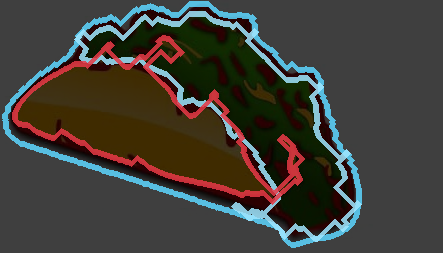
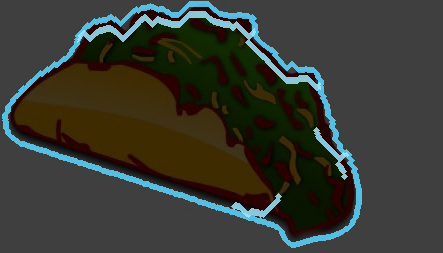
filibertos-taco: v4c-neon — cleaner taco read + manifold repair
Design feedback iteration:
  - Removed DecorationShell (made silhouette look double-lined)
  - Replaced DecorationLettuce closed-contour with DecorationFillingLine,
    a single curve tracing only the BOTTOM EDGE of the lettuce blob.
    Combined with the silhouette outline this reads as taco-cradle +
    horizontal filling split.

Manifold fixes:
  - Reverted mask-blur smoothing (smoothing outer+inner ring edges
    independently diverged them, producing self-intersecting volumes).
  - Added repair_manifold() to build pipeline: dissolve_degenerate +
    delete_loose + fill_holes(8) + remove_doubles. Recovers a watertight
    mesh after EXACT-solver INTERSECT on ring shapes (the EXACT solver
    sometimes leaves tiny coplanar fragments).

All 4 STLs now watertight (verified via trimesh):
  Bottom.stl                     watertight=True euler=2
  Top.stl                        watertight=True euler=0
  DecorationSilhouette.stl       watertight=True euler=0
  DecorationFillingLine.stl      watertight=True euler=2

Filaments: black body + light blue strokes (2 total). Refreshed
print/neon/ bundle accordingly.

diff --git a/beads/filibertos-taco/extract_strokes.py b/beads/filibertos-taco/extract_strokes.py
@@ -77,23 +77,38 @@ def boundary_stroke_between(a_mask, b_mask, half_w):
 
 silhouette_stroke = ring_stroke(silhouette, half)
 
-# Lettuce: aggressively close the mask first so all the leaf blobs merge
-# into ONE continuous shape, then ring-stroke its outer contour. Without
-# the strong close, you get one ring per leaf (fragmented).
-def merge_blobs(mask, dilate_iters=12):
+# Lettuce-shell DIVIDING LINE: a single curve across the bead width
+# tracing where the green filling sits on top of the yellow shell.
+# Combined with the silhouette outline, this reads as "taco" (the
+# silhouette is the half-circle bun, the line is the open-top split).
+#
+# Implementation: morph-close the lettuce blob to one shape, then take
+# only its BOTTOM-EDGE pixels (where the row below is NOT lettuce).
+# That's a thin polyline across the bead. Dilate it to stroke width.
+def merge_blobs(mask, dilate_iters=14):
     closed = ndimage.binary_dilation(mask, iterations=dilate_iters)
     closed = ndimage.binary_erosion(closed, iterations=dilate_iters)
     closed = ndimage.binary_fill_holes(closed)
-    # keep only the largest component
     labeled, n = ndimage.label(closed)
     if not n: return closed
     sizes = ndimage.sum(closed, labeled, range(1, n+1))
     return labeled == 1 + int(np.argmax(sizes))
 
 lettuce_blob = merge_blobs(lettuce_full, dilate_iters=14) & silhouette
-shell_blob   = merge_blobs(shell_m,      dilate_iters=14) & silhouette
-lettuce_outline = ring_stroke(lettuce_blob, half)
-shell_outline   = ring_stroke(shell_blob,   half)
+
+# Bottom edge of the lettuce blob: pixels in lettuce_blob whose pixel-down
+# is NOT lettuce_blob. (Image Y axis: row+1 is "down" in image coords,
+# which is "below" in original-image up-orientation. We're tracing the
+# topological lower edge of the lettuce in image space — which IS the
+# physical bottom of the lettuce on the printed bead since the source
+# JPG has the lettuce on top and shell below.)
+shifted_down = np.zeros_like(lettuce_blob)
+shifted_down[1:, :] = lettuce_blob[:-1, :]
+bottom_edge_pixels = lettuce_blob & ~shifted_down
+
+# Inflate the 1-pixel-thick edge into a stroke
+filling_line = ndimage.binary_dilation(bottom_edge_pixels, iterations=half)
+filling_line = filling_line & silhouette
 
 # Drop tiny disconnected fragments per stroke
 def keep_large(mask, min_px=80):
@@ -106,12 +121,10 @@ def keep_large(mask, min_px=80):
     return keep
 
 silhouette_stroke = keep_large(silhouette_stroke, 200)
-lettuce_outline   = keep_large(lettuce_outline,   200)
-shell_outline     = keep_large(shell_outline,     200)
+filling_line      = keep_large(filling_line,      200)
 
 print(f"silhouette_stroke: {silhouette_stroke.sum()} px")
-print(f"lettuce_outline:   {lettuce_outline.sum()} px")
-print(f"shell_outline:     {shell_outline.sum()} px")
+print(f"filling_line:      {filling_line.sum()} px")
 
 # ── Outer bbox (shared coord frame with silhouette.svg) ─────────────
 ys_o, xs_o = np.where(silhouette)
@@ -133,6 +146,10 @@ def downsample(c, n=300):
     return c[idx]
 
 def mask_to_paths(mask, smooth=True, harm=FOURIER_HARM, min_area=80):
+    """Trace contours of `mask`. NO Fourier smoothing — for ring strokes,
+    smoothing outer+inner edges independently makes them cross, producing
+    self-intersecting volumes after extrusion → non-manifold STLs.
+    Just downsample and use the raw stair-step pixel contours."""
     labeled, n = ndimage.label(mask)
     paths = []
     for k in range(1, n+1):
@@ -140,11 +157,8 @@ def mask_to_paths(mask, smooth=True, harm=FOURIER_HARM, min_area=80):
         if comp.sum() < min_area: continue
         contours = measure.find_contours(comp.astype(np.uint8), level=0.5)
         for c in contours:
-            if len(c) < 8: continue
+            if len(c) < 16: continue
             c = downsample(c, 300)
-            if smooth and len(c) > 10:
-                z = fourier_smooth(c, min(harm, len(c)//4))
-                c = np.column_stack((z.real, z.imag))
             paths.append(c)
     return paths
 
@@ -167,12 +181,12 @@ def write_svg(filename, paths, fill='#000'):
 
 # Each stroke is exported as its own SVG so the build script can pick
 # which ones to emboss as separate decoration objects (and assign filaments).
-write_svg(OUT/'stroke_silhouette.svg', mask_to_paths(silhouette_stroke, harm=FOURIER_HARM, min_area=200), '#5dd6ff')
-write_svg(OUT/'stroke_lettuce.svg',    mask_to_paths(lettuce_outline,   harm=14,           min_area=200), '#5dd6ff')
-write_svg(OUT/'stroke_shell.svg',      mask_to_paths(shell_outline,     harm=14,           min_area=200), '#e63946')
+write_svg(OUT/'stroke_silhouette.svg',   mask_to_paths(silhouette_stroke, harm=FOURIER_HARM, min_area=400), '#5dd6ff')
+write_svg(OUT/'stroke_filling_line.svg', mask_to_paths(filling_line,      harm=FOURIER_HARM, min_area=400), '#5dd6ff')
 
-# Drop the older fragmented strokes if they exist — name change
-for old in ('stroke_lettuce_line.svg', 'stroke_lettuce_veins.svg'):
+# Drop older strokes whose names changed across iterations
+for old in ('stroke_lettuce_line.svg', 'stroke_lettuce_veins.svg',
+            'stroke_lettuce.svg', 'stroke_shell.svg'):
     p = OUT / old
     if p.exists(): p.unlink()
 
@@ -181,8 +195,7 @@ overlay = img.astype(np.float32) * 0.25
 def tint(mask, col, alpha=0.85):
     overlay[mask] = (1-alpha) * overlay[mask] + alpha * np.array(col, dtype=np.float32)
 tint(silhouette_stroke, (93, 214, 255))
-tint(lettuce_outline,   (160, 230, 255))
-tint(shell_outline,     (230, 57, 70))
+tint(filling_line,      (160, 230, 255))
 np.clip(overlay, 0, 255, out=overlay)
 Image.fromarray(overlay.astype(np.uint8)).save(OUT/'stroke_debug.png')
 print(f"  wrote {OUT/'stroke_debug.png'}")

diff --git a/beads/filibertos-taco/build_filibertos_taco.py b/beads/filibertos-taco/build_filibertos_taco.py
@@ -39,8 +39,7 @@ REGION_COLORS = {
 # Neon-mode color palette.
 NEON_COLORS = {
     "silhouette":    (0.36, 0.84, 1.00, 1),    # primary light blue stroke
-    "lettuce_line":  (0.36, 0.84, 1.00, 1),    # second light blue stroke
-    "lettuce_veins": (0.90, 0.18, 0.25, 1),    # red accent (or swap for navy)
+    "filling_line":  (0.36, 0.84, 1.00, 1),    # the lettuce-shell dividing line
 }
 
 def _camel(name): return ''.join(p.capitalize() for p in name.split('_'))
@@ -92,6 +91,25 @@ def clean_mesh(obj, threshold=0.005):
     bpy.ops.object.mode_set(mode='EDIT')
     bpy.ops.mesh.select_all(action='SELECT')
     bpy.ops.mesh.remove_doubles(threshold=threshold)
+    bpy.ops.mesh.normals_make_consistent(inside=False)
+    bpy.ops.object.mode_set(mode='OBJECT')
+
+def repair_manifold(obj):
+    """After EXACT boolean on thin extruded shapes, the EXACT solver
+    sometimes leaves coplanar fragments and unfilled boundary loops.
+    This pass dissolves zero-area features, deletes loose verts/edges,
+    and fills any open boundary loops to recover a watertight mesh."""
+    obj.select_set(True); bpy.context.view_layer.objects.active = obj
+    bpy.ops.object.mode_set(mode='EDIT')
+    bpy.ops.mesh.select_all(action='SELECT')
+    bpy.ops.mesh.dissolve_degenerate(threshold=0.001)
+    bpy.ops.mesh.delete_loose()
+    bpy.ops.mesh.select_all(action='DESELECT')
+    bpy.ops.mesh.select_non_manifold(extend=False, use_wire=True, use_boundary=True,
+                                      use_multi_face=False, use_non_contiguous=False, use_verts=False)
+    bpy.ops.mesh.fill_holes(sides=8)
+    bpy.ops.mesh.select_all(action='SELECT')
+    bpy.ops.mesh.remove_doubles(threshold=0.005)
     bpy.ops.mesh.normals_make_consistent(inside=False)
     bpy.ops.object.mode_set(mode='OBJECT')
 
@@ -335,9 +353,12 @@ def main():
         bpy.ops.object.mode_set(mode='OBJECT')
         boolean_op(d, cropper, 'INTERSECT', f'{name}Crop')
         clean_mesh(d)
+        repair_manifold(d)        # fixes ring-shape boolean artifacts
         assign_material(d, f"{name}Mat", color)
         decos.append(d)
-        print(f"  {name}: dims={d.dimensions.x:.2f}x{d.dimensions.y:.2f}x{d.dimensions.z:.2f}")
+        # report manifold so the build log surfaces issues immediately
+        nm = check_nonmanifold(d)
+        print(f"  {name}: dims={d.dimensions.x:.2f}x{d.dimensions.y:.2f}x{d.dimensions.z:.2f}  non-manifold={nm}")
 
     # ── Step 9: Hide FullBead, materials, save ─────────────────────────
     body.hide_set(True); body.hide_render = True

diff --git a/beads/filibertos-taco/PRINT_LOG.md b/beads/filibertos-taco/PRINT_LOG.md
@@ -4,6 +4,36 @@ Append-only, newest at the top. Every physical print of this charm gets one entr
 
 ---
 
+## v4c-neon — 2026-05-08 — not yet printed (cleanest taco read)
+
+User feedback on v4b: "not 'obviously taco' enough, drop the bottom shell line".
+
+Two design changes:
+1. **Removed `DecorationShell`** — a ring around the lower half made the
+   silhouette look double-lined and busy.
+2. **Replaced `DecorationLettuce` (closed contour) with `DecorationFillingLine`**
+   — a single curve tracing only the BOTTOM EDGE of the lettuce blob (where
+   filling meets shell). Now the bead silhouette + this dividing line reads
+   as a textbook taco: cradle-shaped bun split by a horizontal filling line.
+
+Two manifold issues got fixed along the way:
+- **Mask-blur smoothing made things worse** (50+ non-manifold edges per
+  decoration). Cause: smoothing each contour independently diverged the
+  outer/inner ring offsets so they cross. Reverted to no smoothing on
+  ring-stroke contours.
+- **EXACT solver leaves coplanar fragments** at ring boundaries after
+  INTERSECT with the silhouette cropper. Added `repair_manifold()` to the
+  build pipeline: dissolve degenerate edges, delete loose, fill_holes(8),
+  remove doubles, reconcile normals. Now every decoration STL is
+  watertight (verified via trimesh: `is_watertight=True`, euler=0 for
+  ring shapes, euler=2 for solid).
+
+Filaments now reduced to 2: black body + light blue strokes.
+
+`build_filibertos_taco.py` `repair_manifold()` will help every future
+ring-stroke decoration in this charm — and is general enough to backport
+to the recipe if other charms hit the same EXACT-solver issue.
+
 ## v4b-neon — 2026-05-08 — not yet printed (continuous-stroke neon)
 
 Refined v4-neon. Original strokes used boundary-between-mask which produced